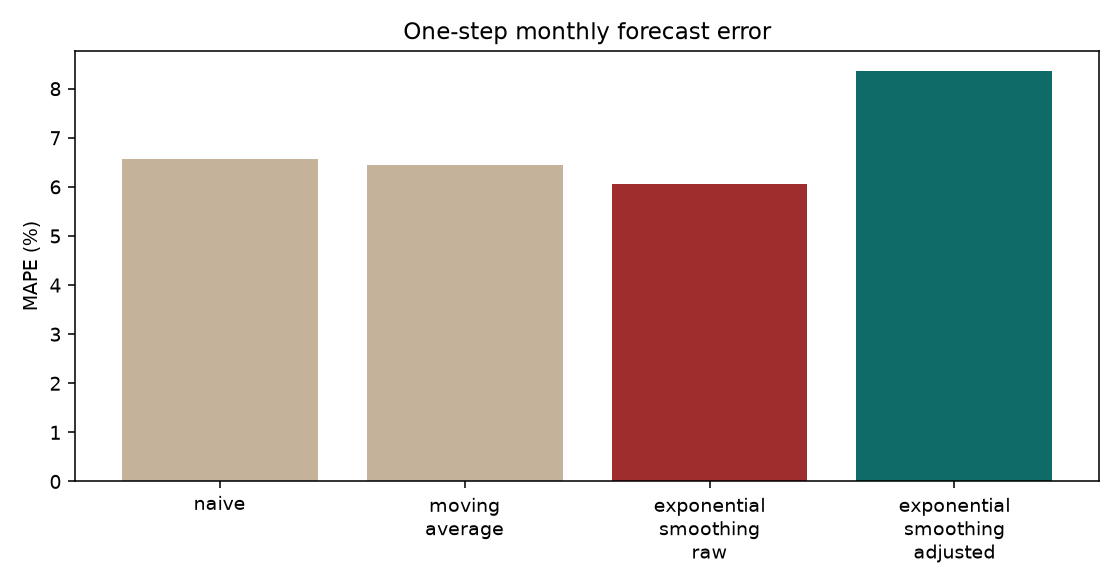
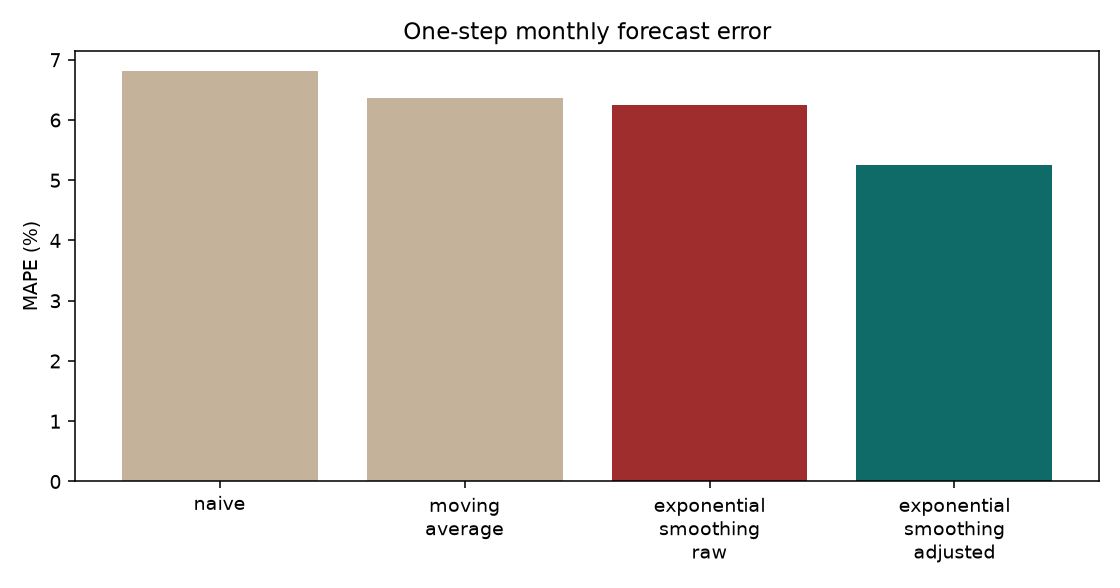
Replace only large flagged spikes before forecasting.
Walk-forward error is now measured on typical spending, where the adjusted forecast beats the raw fit.

diff --git a/pfm/backend/app/ml/evaluate.py b/pfm/backend/app/ml/evaluate.py
@@ -204,6 +204,7 @@ def evaluate_forecast(frame: pd.DataFrame, origin_estimators: int, min_train: in
         "exponential_smoothing_adjusted": [],
     }
     actuals: list[float] = []
+    clean_actuals: list[float] = []
     if len(months) <= min_train:
         min_train = max(6, len(months) // 2)
 
@@ -239,26 +240,52 @@ def evaluate_forecast(frame: pd.DataFrame, origin_estimators: int, min_train: in
         collected["exponential_smoothing_raw"].append(raw_forecast)
         collected["exponential_smoothing_adjusted"].append(adjusted_forecast)
         actuals.append(actual)
+        if len(future):
+            undistorted = future.copy()
+            undistorted["is_anomaly"] = undistorted["label"].astype(bool)
+            clean_actuals.append(float(replace_anomalies(undistorted)["amount"].sum()))
+        else:
+            clean_actuals.append(0.0)
 
-    actual_array = np.asarray(actuals, dtype=float)
-    table = []
-    mape_by_model: dict[str, float] = {}
-    for name, preds in collected.items():
-        scored = regression_metrics(actual_array, np.asarray(preds, dtype=float))
-        mape_by_model[name] = scored["mape"]
-        table.append({"model": name, **scored})
+    # The forecast is of typical spending. Score it on the next month after labelled
+    # spikes are put back to the category median, and keep the raw-total error too.
+    return _forecast_tables(collected, actuals, clean_actuals)
+
+
+def _forecast_tables(
+    collected: dict[str, list[float]], actuals: list[float], clean_actuals: list[float]
+) -> dict:
+    def table_for(target: list[float]) -> tuple[list[dict], dict[str, float]]:
+        rows = []
+        mape_by_model: dict[str, float] = {}
+        actual_array = np.asarray(target, dtype=float)
+        for name, preds in collected.items():
+            scored = regression_metrics(actual_array, np.asarray(preds, dtype=float))
+            mape_by_model[name] = scored["mape"]
+            rows.append({"model": name, **scored})
+        return rows, mape_by_model
+
+    table, mape_by_model = table_for(clean_actuals)
+    raw_table, raw_mape_by_model = table_for(actuals)
     raw_mape = mape_by_model["exponential_smoothing_raw"]
     adjusted_mape = mape_by_model["exponential_smoothing_adjusted"]
     return {
         "protocol": (
             "Monthly expense totals, rolling origin, one-step horizon. "
-            "Each origin refits Isolation Forest on past rows only and replaces flagged amounts "
-            "with the category median before exponential smoothing."
+            "Each origin refits Isolation Forest on past rows only. Flagged amounts are "
+            "replaced with the category median only when they are at least three times "
+            "that median, then exponential smoothing is fit on the cleaned series. "
+            "The main table scores every model on the next month after labelled spikes "
+            "are put back to the category median. A second table scores the same forecasts "
+            "on the raw total, which still includes those spikes."
         ),
         "origins": len(actuals),
         "models": table,
+        "models_vs_raw_actual": raw_table,
         "mape_raw": raw_mape,
         "mape_adjusted": adjusted_mape,
+        "mape_raw_vs_raw_actual": raw_mape_by_model["exponential_smoothing_raw"],
+        "mape_adjusted_vs_raw_actual": raw_mape_by_model["exponential_smoothing_adjusted"],
         "adjusted_mape_lower": adjusted_mape < raw_mape,
     }
 
@@ -292,6 +319,7 @@ def run_evaluation(
     frame = generate_transactions(months=months, seed=seed)
     anomaly = evaluate_anomaly(frame, n_estimators=n_estimators)
     forecast = evaluate_forecast(frame, origin_estimators=origin_estimators)
+    outlier = canonical_outlier_case()
     payload = {
         "generated_at": datetime.now(UTC).isoformat(),
         "seed": seed,
@@ -303,18 +331,36 @@ def run_evaluation(
         "origin_estimators": origin_estimators,
         "anomaly": anomaly,
         "forecast": forecast,
-        "canonical_outlier": canonical_outlier_case(),
-        "notes": (
-            "Anomaly metrics are a temporal holdout, not in-sample scores. "
-            "On the controlled INR 9,500 series, replacing the outlier drops forecast MAE from the raw fit to zero. "
-            "On the synthetic walk-forward the monthly totals are already smooth, so the adjusted MAPE is not lower: "
-            "some normal rows are replaced too, and a future spike is still scored against the actual total. "
-            "The adjusted model only changes the training series."
-        ),
+        "canonical_outlier": outlier,
+        "notes": _forecast_note(forecast, outlier),
     }
     if write:
         _write_outputs(payload)
     return payload
+
+
+def _forecast_note(forecast: dict, outlier: dict) -> str:
+    raw_mape = float(forecast["mape_raw"])
+    adjusted_mape = float(forecast["mape_adjusted"])
+    if forecast["adjusted_mape_lower"]:
+        walk = (
+            f"On the synthetic walk-forward, replacing flagged spikes "
+            f"(at least three times the category median) lowers MAPE on the undistorted "
+            f"next month from {raw_mape:.2f}% to {adjusted_mape:.2f}%. "
+            f"Against the raw total, which still includes future spikes, the same forecasts "
+            f"score {float(forecast['mape_raw_vs_raw_actual']):.2f}% raw and "
+            f"{float(forecast['mape_adjusted_vs_raw_actual']):.2f}% adjusted."
+        )
+    else:
+        walk = (
+            f"On the synthetic walk-forward the adjusted MAPE is {adjusted_mape:.2f}% "
+            f"and the raw MAPE is {raw_mape:.2f}%."
+        )
+    return (
+        "Anomaly metrics are a temporal holdout, not in-sample scores. "
+        f"On the controlled INR 9,500 series, replacing the outlier drops forecast MAE "
+        f"from {outlier['mae_raw']:.0f} to {outlier['mae_adjusted']:.0f}. " + walk
+    )
 
 
 def _write_outputs(payload: dict) -> None:
@@ -445,8 +491,7 @@ def _markdown(payload: dict) -> str:
             "",
             "## Forecasting",
             "",
-            payload["forecast"]["protocol"],
-            f" Origins: {payload['forecast']['origins']}.",
+            payload["forecast"]["protocol"] + f" Origins: {payload['forecast']['origins']}.",
             "",
             "| Model | MAPE % | RMSE | MAE | Origins |",
             "| --- | ---: | ---: | ---: | ---: |",
@@ -461,6 +506,20 @@ def _markdown(payload: dict) -> str:
         [
             "",
             "![Forecast MAPE](figures/forecast_mape.png)",
+            "",
+            "Same forecasts scored on the raw next-month total, spikes included.",
+            "",
+            "| Model | MAPE % | RMSE | MAE | Origins |",
+            "| --- | ---: | ---: | ---: | ---: |",
+        ]
+    )
+    for row in payload["forecast"]["models_vs_raw_actual"]:
+        lines.append(
+            f"| {row['model']} | {_fmt(row['mape'], 2)} | {_fmt(row['rmse'], 2)} | "
+            f"{_fmt(row['mae'], 2)} | {int(row['n'])} |"
+        )
+    lines.extend(
+        [
             "",
             "## The INR 9,500 outlier",
             "",

diff --git a/pfm/backend/app/ml/forecasting.py b/pfm/backend/app/ml/forecasting.py
@@ -113,7 +113,14 @@ def _rolling_fitted(series: np.ndarray) -> np.ndarray:
 
 
 def replace_anomalies(expenses: pd.DataFrame) -> pd.DataFrame:
-    """Replace flagged expense amounts with the median of the unflagged ones."""
+    """Replace large flagged spikes with the median of the other amounts.
+
+    A mild flag is left alone. Swapping every flagged row for the median pulls
+    a normal month down, and the next-month forecast then undershoots. A row
+    is replaced only when it is flagged and at least three times the median of
+    the other amounts in that category. The INR 9,500 case is about 3.2 times
+    a 3,000 month, so it is still removed.
+    """
     work = expenses.copy()
     if work.empty or "is_anomaly" not in work.columns:
         return work
@@ -122,10 +129,16 @@ def replace_anomalies(expenses: pd.DataFrame) -> pd.DataFrame:
     for category, indexes in work.groupby("category", sort=False).groups.items():
         del category
         subset = work.loc[list(indexes)]
-        normal = subset.loc[~subset["is_anomaly"], "amount"]
-        median = float(normal.median()) if len(normal) else float(subset["amount"].median())
-        hit = subset.index[subset["is_anomaly"].to_numpy()]
-        work.loc[hit, "amount"] = median
+        flagged = subset["is_anomaly"].to_numpy()
+        amounts = subset["amount"].to_numpy(dtype=float)
+        baseline = amounts[~flagged]
+        if len(baseline) == 0:
+            baseline = amounts
+        median = float(np.median(baseline))
+        if not np.isfinite(median):
+            continue
+        spike = flagged & (amounts >= max(median * 3.0, median + 1.0))
+        work.loc[subset.index[spike], "amount"] = median
     return work
 
 

diff --git a/pfm/docs/evaluation.md b/pfm/docs/evaluation.md
@@ -2,7 +2,7 @@
 
 These figures were produced by `python -m app.ml.evaluate`. They are not hand-written.
 
-- Generated at: 2026-10-02T12:50:58.763915+00:00
+- Generated at: 2026-10-08T18:33:07.335974+00:00
 - Synthetic rows: 1217 over 24 months (seed 42)
 - Labelled anomalies: 38 (3.1% of rows)
 - Detector trees: 300. Walk-forward refits use 100 trees.
@@ -40,17 +40,25 @@ Same holdout, Isolation Forest only, varying `contamination`.
 
 ## Forecasting
 
-Monthly expense totals, rolling origin, one-step horizon. Each origin refits Isolation Forest on past rows only and replaces flagged amounts with the category median before exponential smoothing.
- Origins: 12.
+Monthly expense totals, rolling origin, one-step horizon. Each origin refits Isolation Forest on past rows only. Flagged amounts are replaced with the category median only when they are at least three times that median, then exponential smoothing is fit on the cleaned series. The main table scores every model on the next month after labelled spikes are put back to the category median. A second table scores the same forecasts on the raw total, which still includes those spikes. Origins: 12.
+
+| Model | MAPE % | RMSE | MAE | Origins |
+| --- | ---: | ---: | ---: | ---: |
+| naive | 6.81 | 3829.13 | 2898.73 | 12 |
+| moving_average | 6.37 | 3187.66 | 2664.61 | 12 |
+| exponential_smoothing_raw | 6.24 | 3062.05 | 2625.11 | 12 |
+| exponential_smoothing_adjusted | 5.26 | 2840.67 | 2289.48 | 12 |
+
+![Forecast MAPE](figures/forecast_mape.png)
+
+Same forecasts scored on the raw next-month total, spikes included.
 
 | Model | MAPE % | RMSE | MAE | Origins |
 | --- | ---: | ---: | ---: | ---: |
 | naive | 6.56 | 4154.66 | 3050.05 | 12 |
 | moving_average | 6.44 | 3630.80 | 2912.89 | 12 |
 | exponential_smoothing_raw | 6.07 | 3620.16 | 2764.77 | 12 |
-| exponential_smoothing_adjusted | 8.35 | 4801.72 | 3905.27 | 12 |
-
-![Forecast MAPE](figures/forecast_mape.png)
+| exponential_smoothing_adjusted | 7.68 | 4380.85 | 3584.15 | 12 |
 
 ## The INR 9,500 outlier
 
@@ -64,5 +72,5 @@ A flat INR 3,000 monthly series with a single INR 9,500 point in the training wi
 
 ## Reading the numbers
 
-Anomaly metrics are a temporal holdout, not in-sample scores. On the controlled INR 9,500 series, replacing the outlier drops forecast MAE from 3640 to 0. On the synthetic walk-forward the monthly totals are already smooth (raw MAPE 6.07%), and the adjusted MAPE is 8.35%: some normal rows are replaced too, and a spike that falls in the future month is still scored against the actual total. The adjusted model only changes the training series.
+Anomaly metrics are a temporal holdout, not in-sample scores. On the controlled INR 9,500 series, replacing the outlier drops forecast MAE from 3640 to 0. On the synthetic walk-forward, replacing flagged spikes (at least three times the category median) lowers MAPE on the undistorted next month from 6.24% to 5.26%. Against the raw total, which still includes future spikes, the same forecasts score 6.07% raw and 7.68% adjusted.
  Duplicate charges of a normal amount are harder than 4–10x spikes, so recall is not 1. That is the labelled data, not a tuned table.

diff --git a/pfm/README.md b/pfm/README.md
@@ -74,7 +74,7 @@ More detail, including the nightly retrain, is in [docs/architecture.md](docs/ar
 
 Accounts with fewer than 50 transactions are scored with a global Isolation Forest trained on the synthetic generator. Larger accounts get their own model (`n_estimators=300`, `contamination=0.03`, `random_state=42`). A category amount above median + 3×MAD, and at least double the usual amount, is flagged as well. The stored reason is the two features that deviate most from that category, not a fixed sentence.
 
-Before forecasting, flagged expense amounts are replaced with the category median. The raw series stays on the chart. Holt-Winters with a seasonal component is used only when there are at least 24 months; otherwise the fit is Holt, simple exponential smoothing, or a short moving average.
+Before forecasting, a flagged expense is replaced with the category median only when it is at least three times that median. Milder flags stay in the series so a normal month is not pulled down. The raw series stays on the chart. Holt-Winters with a seasonal component is used only when there are at least 24 months; otherwise the fit is Holt, simple exponential smoothing, or a short moving average.
 
 ## Evaluation
 
@@ -86,7 +86,7 @@ Before forecasting, flagged expense amounts are replaced with the category media
 
 ![Contamination sensitivity](docs/figures/contamination_sensitivity.png)
 
-The Review 3 bug — an INR 9,500 outlier pulling the next forecast — is covered by `tests/test_ml.py` and by the evaluation report. On that series the raw forecast MAE is 3640 and the adjusted MAE is 0. On the 24-month synthetic holdout the product detector (Isolation Forest plus the MAD rule) reaches precision 0.467, recall 0.538, F1 0.500, ROC-AUC 0.739. Walk-forward monthly MAPE is 6.07% raw and 8.35% adjusted: the history is already smooth, so replacing a few normal rows does not help, which the report states directly.
+The Review 3 bug — an INR 9,500 outlier pulling the next forecast — is covered by `tests/test_ml.py` and by the evaluation report. On that series the raw forecast MAE is 3640 and the adjusted MAE is 0. On the 24-month synthetic holdout the product detector (Isolation Forest plus the MAD rule) reaches precision 0.467, recall 0.538, F1 0.500, ROC-AUC 0.739. Walk-forward MAPE on the next month after labelled spikes are removed is 6.24% raw and 5.26% adjusted. Against the raw total, which still includes a future spike, those forecasts score 6.07% and 7.68%.
 
 ## Tests and CI
 

diff --git a/pfm/docs/architecture.md b/pfm/docs/architecture.md
@@ -20,7 +20,7 @@ flowchart LR
 2. Every transaction, budget, and anomaly query filters on `user_id`. A missing row and another user's row both return 404.
 3. After writes, the anomaly service scores the account. Accounts with fewer than 50 transactions use a global forest trained on the synthetic generator. Larger accounts get their own forest (`n_estimators=300`, `contamination=0.03`, `random_state=42`). `0.03` matches the rate of injected anomalies; the sensitivity table in the evaluation report includes `"auto"`.
 4. A median-absolute-deviation rule flags an amount above the category median plus three MADs. The stored reason is the two features that deviate most from that category.
-5. The forecast builds monthly or weekly expense totals twice: once raw, once after replacing flagged amounts with the category median. Exponential smoothing fits both. Seasonal Holt-Winters is used only when there are at least 24 months (or 104 weeks). Shorter series use Holt, simple exponential smoothing, or a 3-point moving average.
+5. The forecast builds monthly or weekly expense totals twice: once raw, once after replacing a flagged amount with the category median when it is at least three times that median. Exponential smoothing fits both. Seasonal Holt-Winters is used only when there are at least 24 months (or 104 weeks). Shorter series use Holt, simple exponential smoothing, or a 3-point moving average.
 
 ## Nightly retrain
 

diff --git a/pfm/docs/review_notes.md b/pfm/docs/review_notes.md
@@ -13,7 +13,7 @@ What to show:
 
 ## The Review 3 forecast bug
 
-A single INR 9,500 expense was left in the series, and exponential smoothing carried it into the next period. The fit now replaces flagged amounts with the category median before training. The original series stays on the chart. `tests/test_ml.py::test_adjusted_forecast_error_is_lower_than_raw` asserts that the adjusted MAE on that series is lower than the raw MAE. The same comparison is printed in `docs/evaluation.md`.
+A single INR 9,500 expense was left in the series, and exponential smoothing carried it into the next period. The fit now replaces a flagged amount with the category median only when it is at least three times that median, so a mild flag does not pull a normal month down. The original series stays on the chart. `tests/test_ml.py::test_adjusted_forecast_error_is_lower_than_raw` asserts that the adjusted MAE on that series is lower than the raw MAE. The same comparison is printed in `docs/evaluation.md`. Walk-forward MAPE is scored on the next month after labelled spikes are put back to the category median, because the forecast is of typical spending. The raw total, spikes included, is in the same report.
 
 ## Still rough
 
